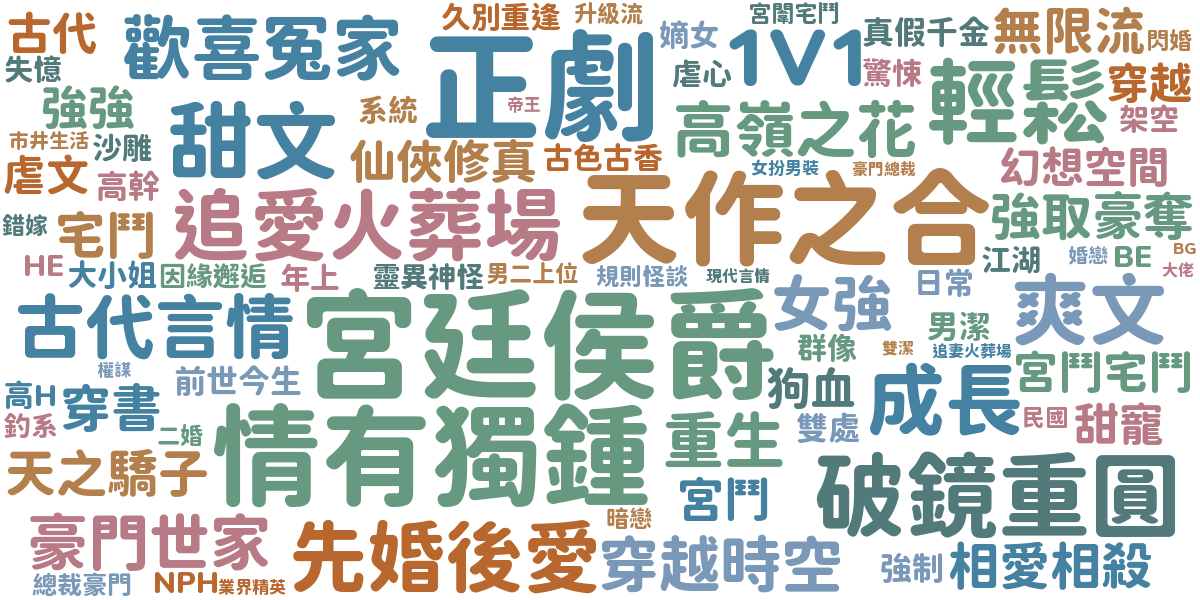
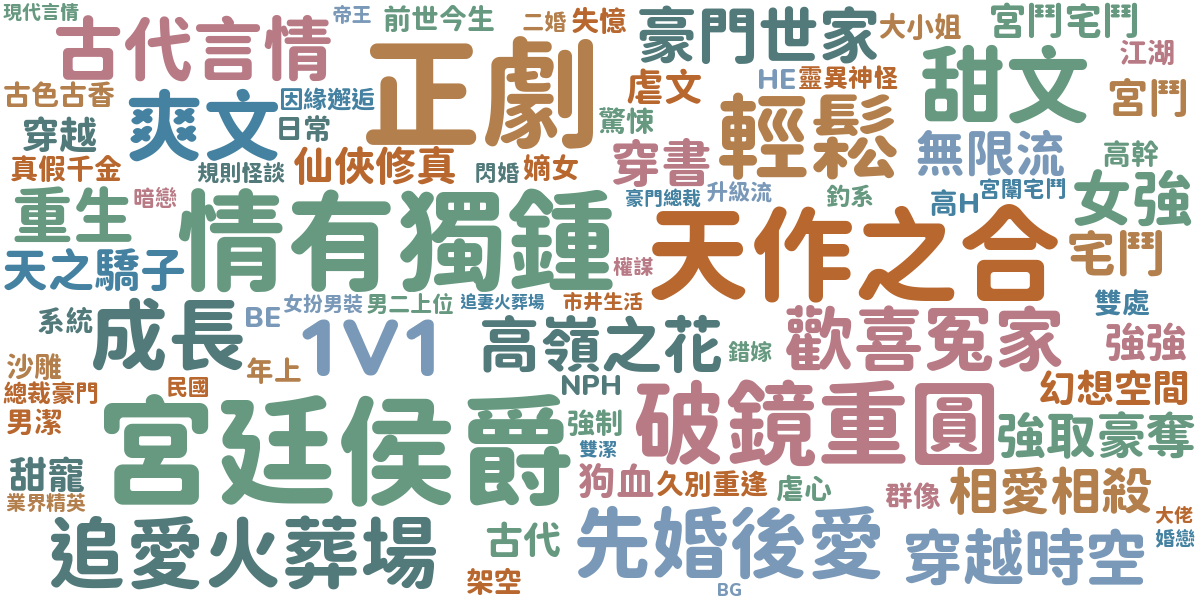
☁ Update reading word cloud via GitHub Actions

diff --git a/public/word_cloud.html b/public/word_cloud.html
@@ -23,6 +23,6 @@
     </style>
 </head>
 <body>
-    <img src="word_cloud.png?t=1777769428" alt="Word Cloud">
+    <img src="word_cloud.png?t=1777855767" alt="Word Cloud">
 </body>
 </html>
